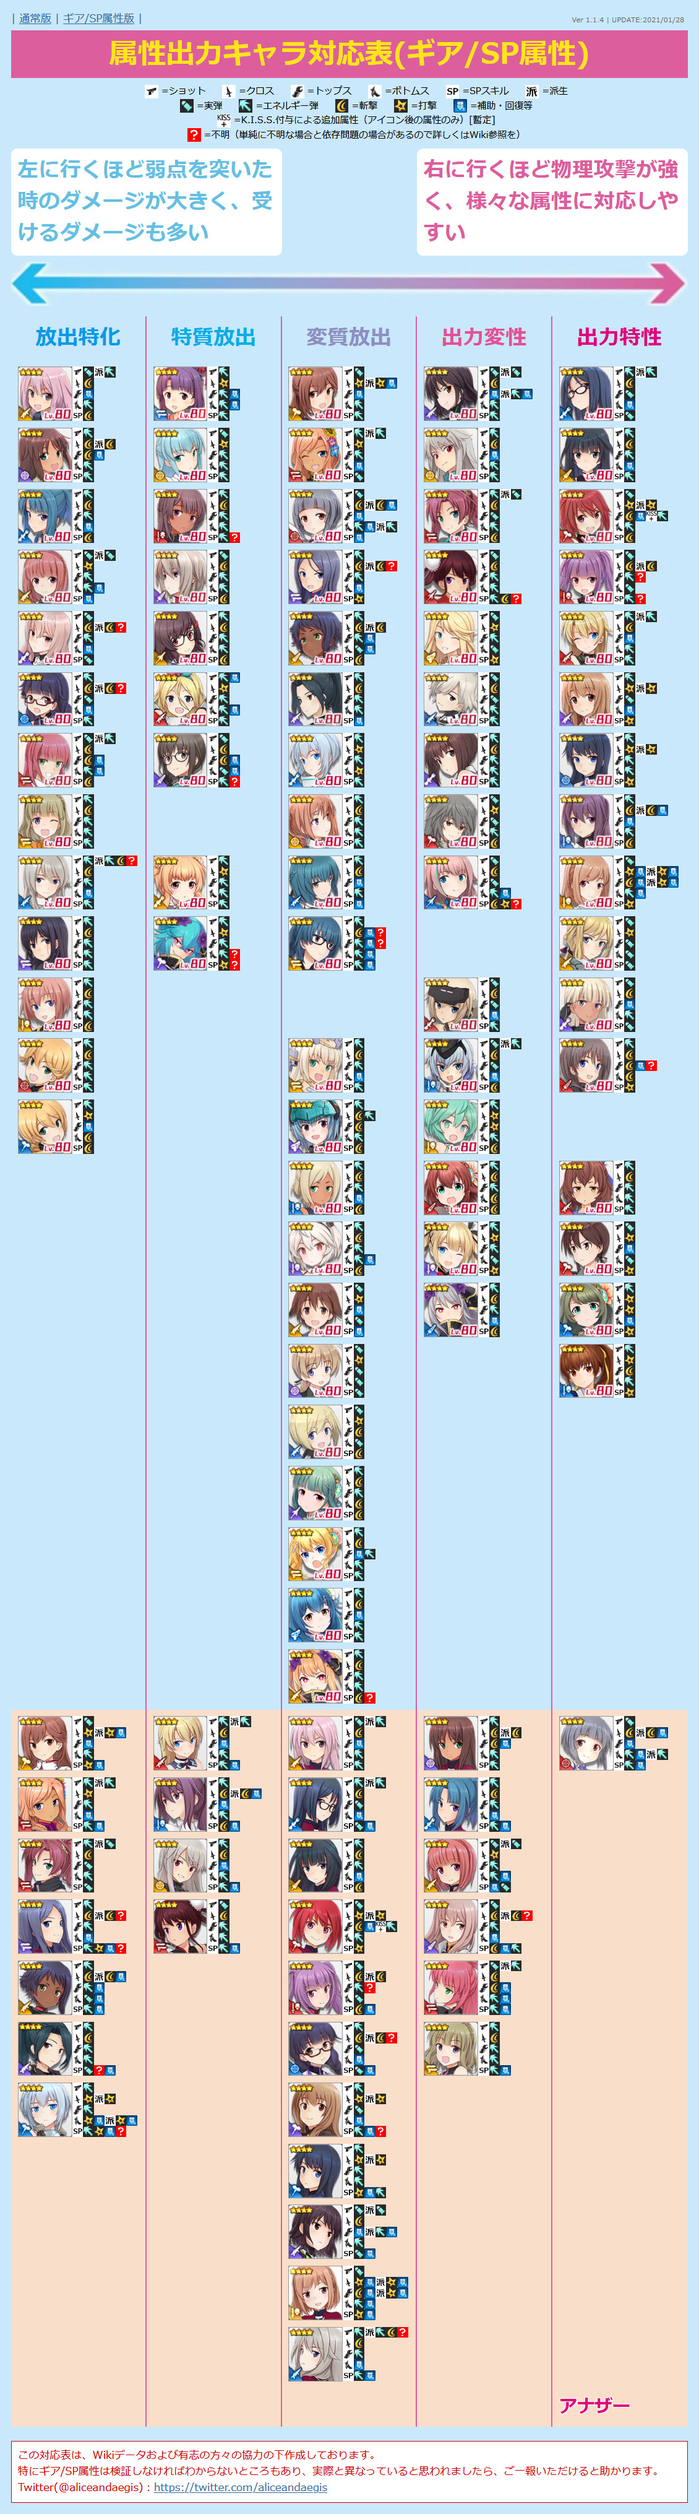
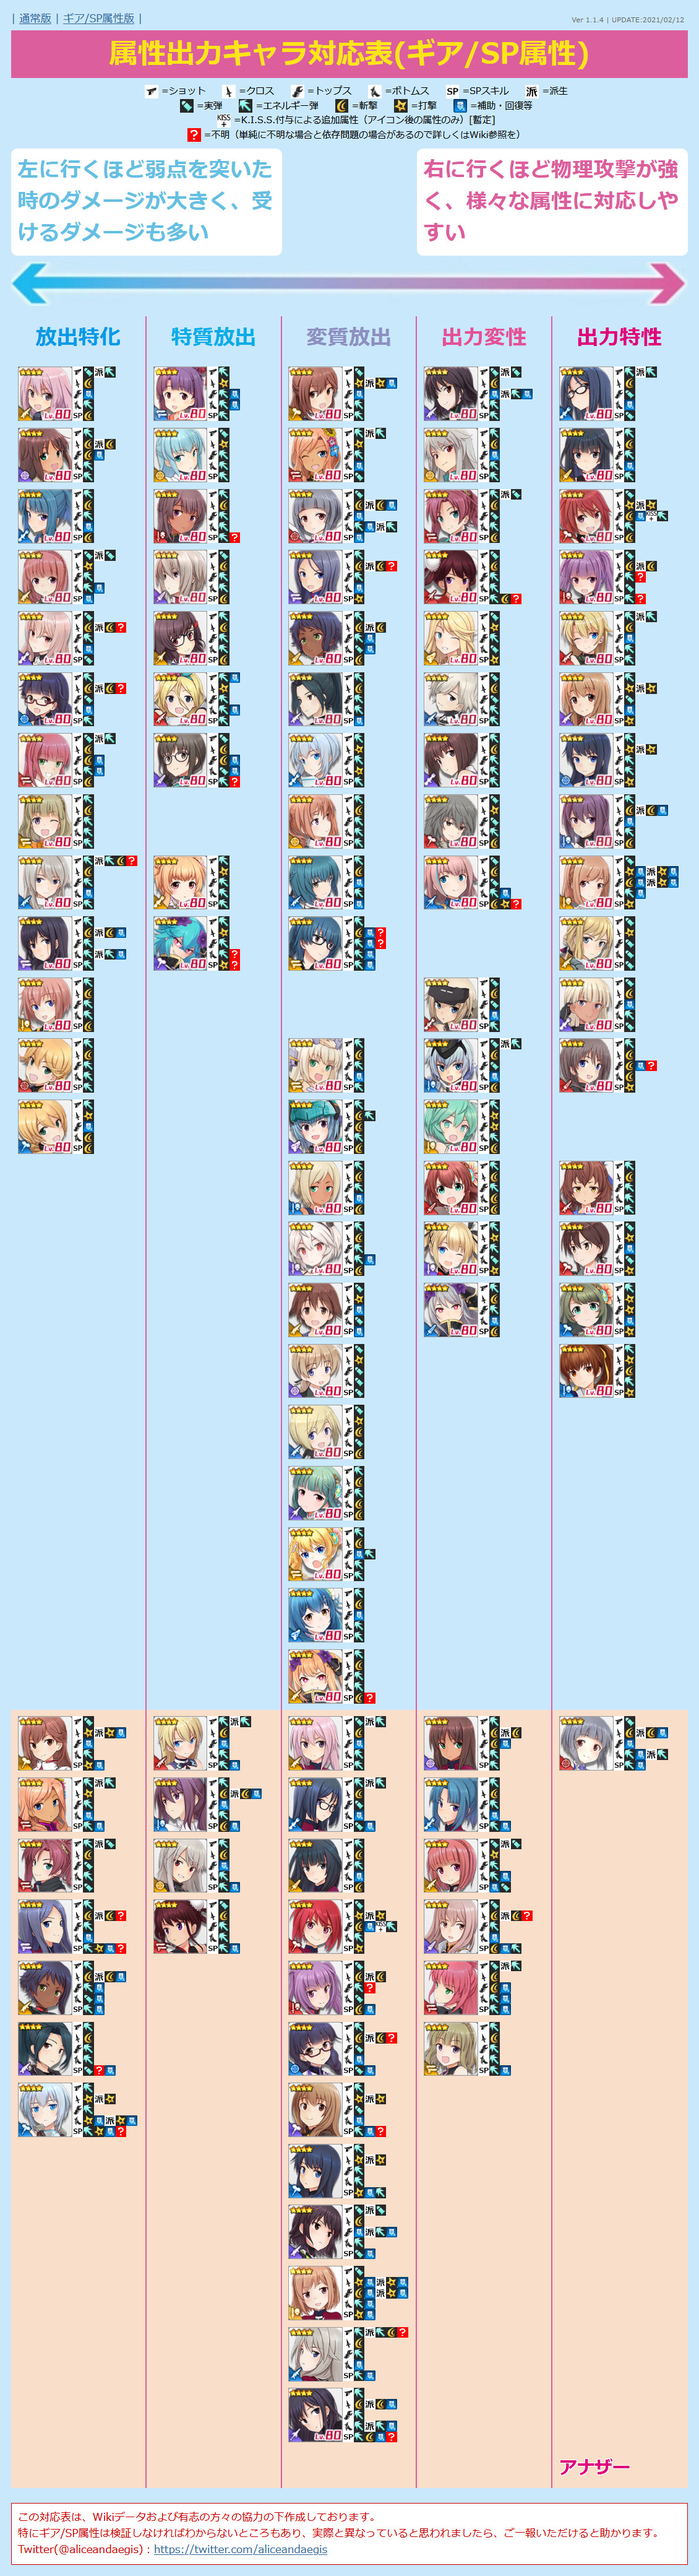
UPDATE chara data
・アナザー 籠目 深沙希/泡影を追加

diff --git a/alice.html b/alice.html
@@ -12,7 +12,7 @@
   <script>
 
 /* 更新情報 必要に応じて書き換えてください */
-  var version = "Ver 1.1.4 | UPDATE:2021/01/28";
+  var version = "Ver 1.1.4 | UPDATE:2021/02/12";
 
 /*
   jsonファイルを外部に設置すると単にHTMLファイルを開いたときに動作しなくなるので当面はHTMLファイル内に
@@ -869,13 +869,27 @@
       "src": "normal-misaki.png",
       "name": "籠目 深沙希",
       "equip1": "2",
-      "equip2": "3",
+      "equip2": "3/35",
       "equip3": "2",
-      "equip4": "2",
+      "equip4": "2/25",
       "sp": "2",
       "attr": "2",
       "link": "https://wikiwiki.jp/alicegear/%E7%B1%A0%E7%9B%AE%E6%B7%B1%E6%B2%99%E5%B8%8C",
       "category": ""
+    },
+    {
+      "id": "30",
+      "type": "3",
+      "src": "another-misaki.png",
+      "name": "籠目 深沙希 / 泡影",
+      "equip1": "2",
+      "equip2": "3/35",
+      "equip3": "2",
+      "equip4": "2/25",
+      "sp": "235?",
+      "attr": "2",
+      "link": "https://wikiwiki.jp/alicegear/%E7%B1%A0%E7%9B%AE%E6%B7%B1%E6%B2%99%E5%B8%8C%E6%B3%A1%E5%BD%B1",
+      "category": "10"
     },
     {
       "id": "31",
